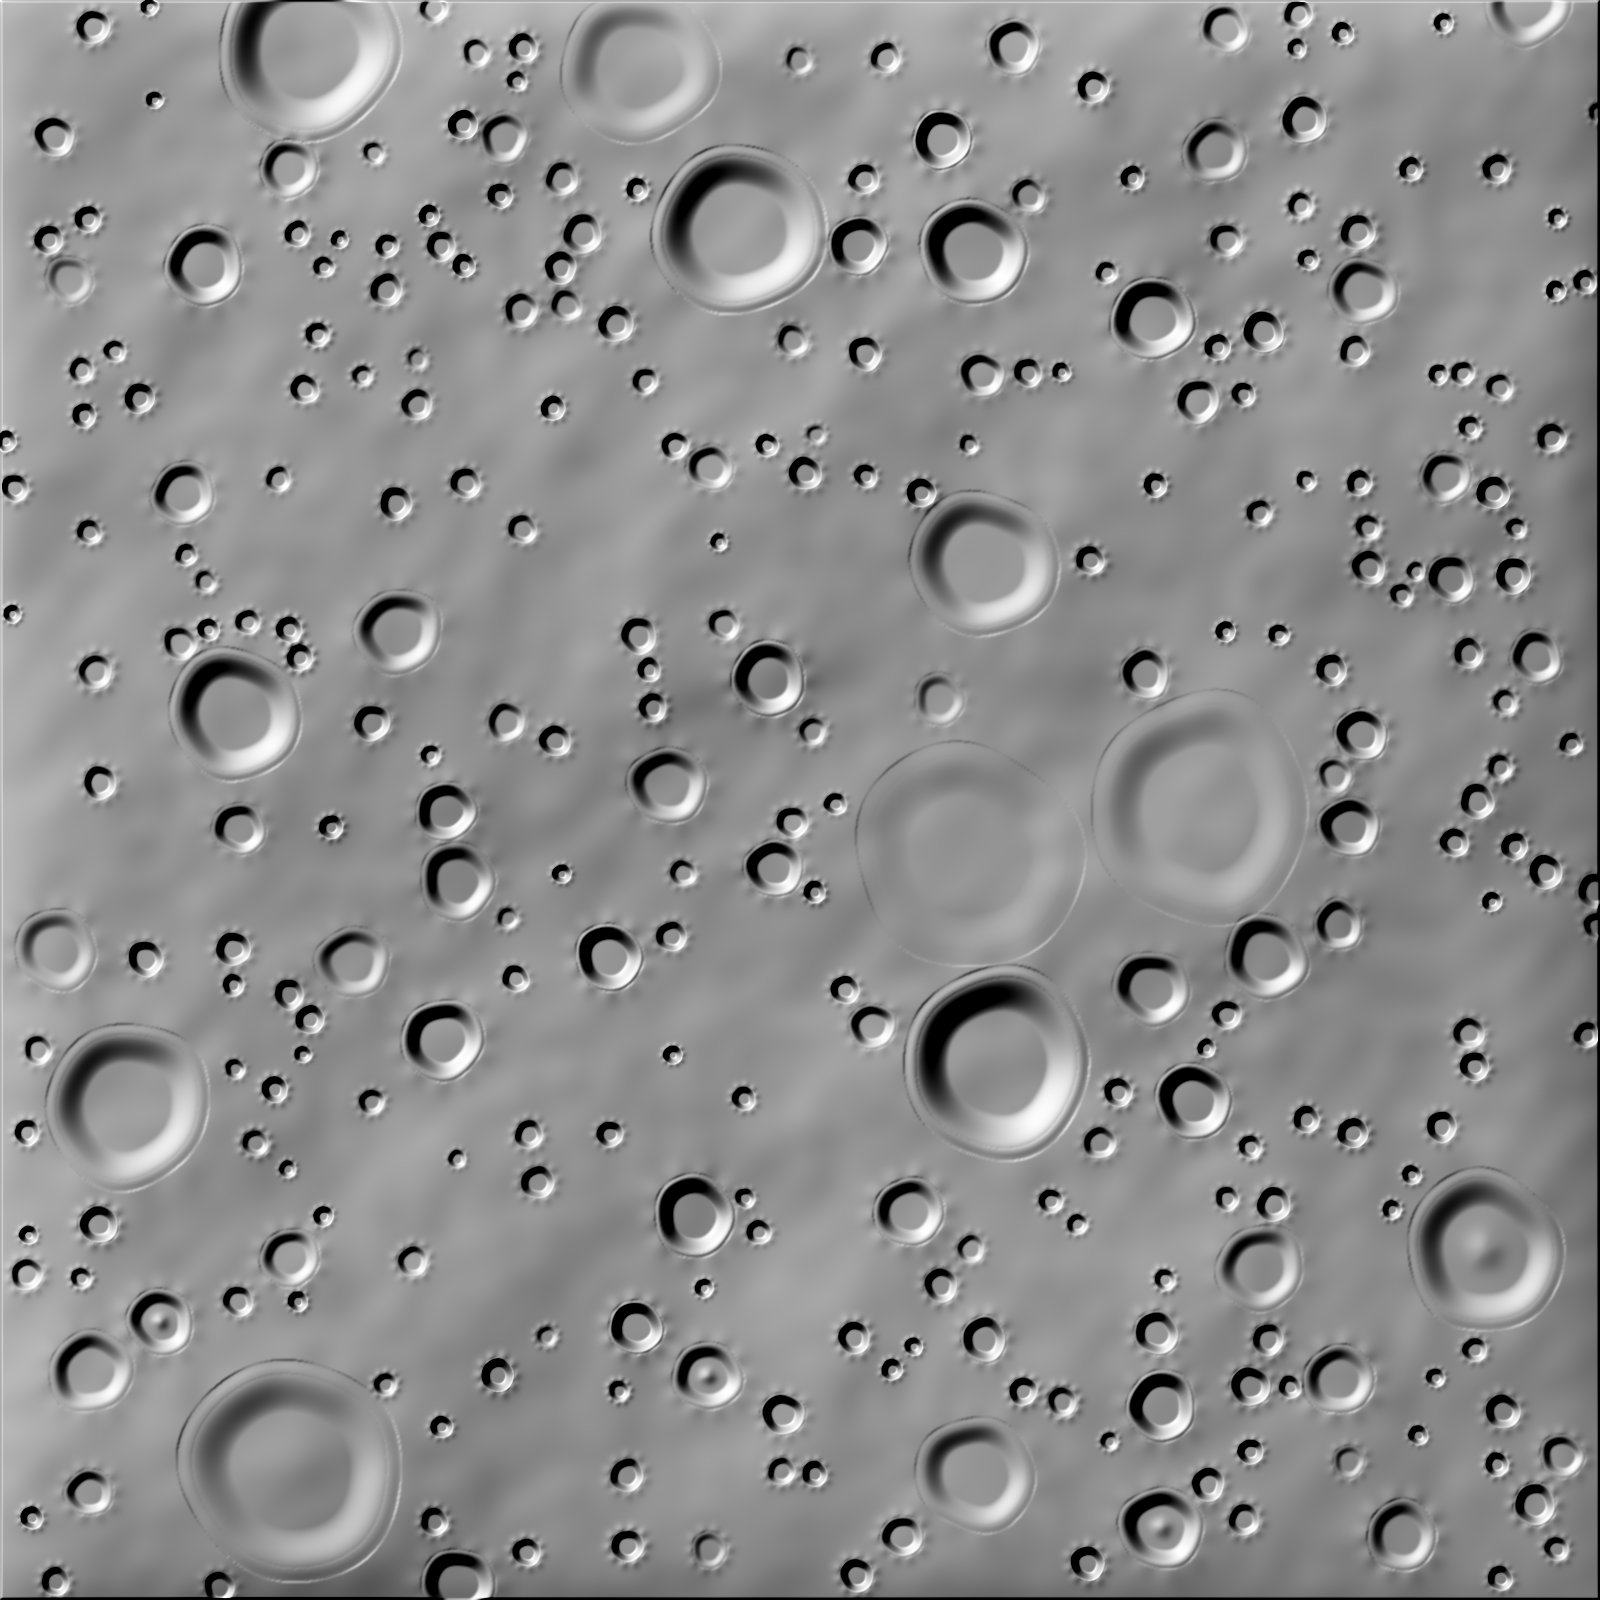
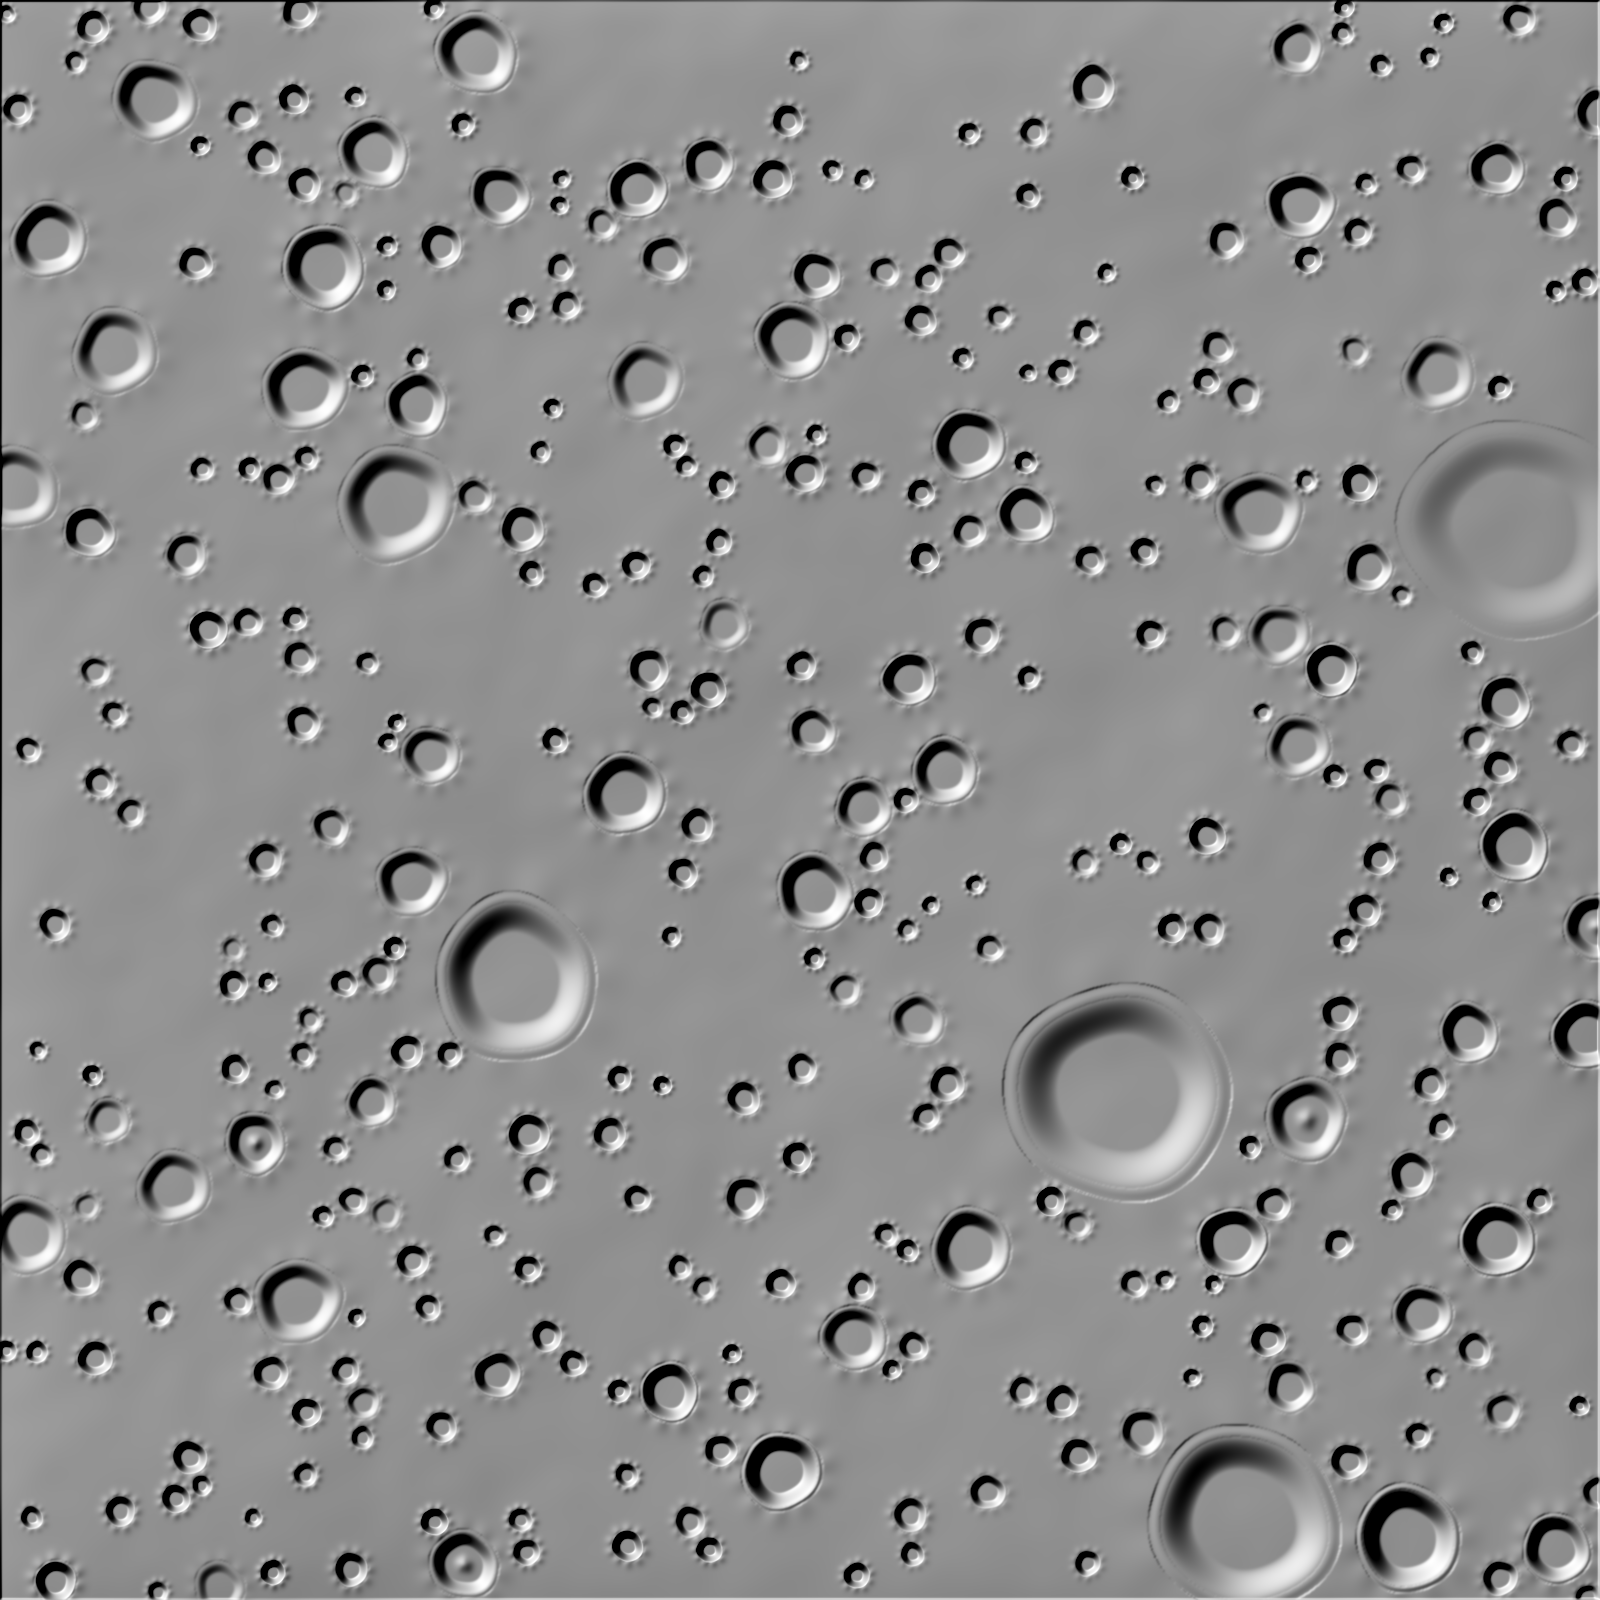
prototype: kill remaining soft circular dark patches
The dark "circular shadow" patches the user kept seeing in
planet_full.png had two real causes (neither of which was the mare
basin layer I'd already disabled):

  1. colourise() was lerping shadow→base→high archetype colours by
     elevation. Wherever the FBM heightmap dipped — even slightly —
     the albedo dropped to the archetype's shadow colour, producing
     soft circular dark blobs that looked exactly like cast shadows.
     Removed the height-based blend entirely. Albedo is now just the
     archetype base colour; brightness variation is left to hillshade
     and cast shadows.

  2. The dark archetypes (LAVA_TUBE rgb 80, MARE rgb 70) were so much
     darker than the bright ones that, after Gaussian-blurring the
     boundaries, they read as soft amorphous dark patches. Brought all
     archetype `base` colours into a tight 138..168 range so no biome
     looks like a shadow. Biomes are still distinguishable by tint.

Also compressed the FBM heightmap to ~30% of its raw amplitude and
reduced the big-crater count from 14 → 6. The remaining dark in the
planet view is now from craters only.

https://claude.ai/code/session_014xZZbBkCGkgHdGrMSpJjDx

diff --git a/prototypes/planet_visuals/generate.py b/prototypes/planet_visuals/generate.py
@@ -78,38 +78,41 @@ class Archetype:
     accent: tuple      # signature accent (ice glint, KREEP glow, void, etc.)
     contrast: float    # 0..1, how much hillshade modulates albedo
 
-# Tones tuned to look like real lunar imagery: low chroma, mostly grayscale with
-# subtle hue shifts. Saturation kills the moon-feel.
+# Tones tuned to look like real lunar imagery: low chroma, mostly grayscale
+# with subtle hue shifts. All `base` colours kept in a tight 140..170
+# brightness range so no biome region reads as a shadow patch when
+# rendered at full-planet zoom. Biomes are distinguished by tint, not
+# by big brightness jumps.
 ARCHETYPES = {
     "MARE_INDUSTRIAL":     Archetype("Mare (basalt)",
-                                     ( 70,  68,  66),
-                                     ( 38,  37,  36),
-                                     (110, 106, 100),
-                                     ( 50,  46,  42), 0.45),
+                                     (138, 134, 128),
+                                     ( 80,  78,  74),
+                                     (170, 165, 156),
+                                     ( 90,  86,  80), 0.45),
     "HIGHLAND_CONSTRUCTION": Archetype("Highland (anorthosite)",
-                                     (158, 154, 146),
-                                     (102,  98,  92),
-                                     (210, 206, 196),
+                                     (162, 158, 150),
+                                     (110, 106,  98),
+                                     (200, 196, 188),
                                      (190, 188, 180), 0.55),
     "POLAR_VOLATILE":      Archetype("Polar (ice frost)",
-                                     (170, 178, 192),
-                                     (108, 116, 130),
-                                     (224, 230, 240),
+                                     (168, 174, 184),
+                                     (115, 122, 134),
+                                     (210, 218, 230),
                                      (220, 234, 246), 0.65),
     "KREEP_SCIENTIFIC":    Archetype("KREEP (thorium-rich)",
-                                     (118, 108,  96),
-                                     ( 72,  64,  56),
-                                     (172, 158, 140),
+                                     (158, 144, 130),
+                                     (100,  90,  80),
+                                     (190, 174, 156),
                                      (200, 150, 110), 0.50),
     "LAVA_TUBE":           Archetype("Lava tube collapse",
-                                     ( 80,  76,  72),
-                                     ( 22,  20,  18),
-                                     (118, 112, 104),
+                                     (148, 142, 134),
+                                     ( 70,  66,  60),
+                                     (180, 172, 162),
                                      (  6,   4,   4), 0.45),
     "MIXED":               Archetype("Mixed terrain",
-                                     (124, 118, 110),
-                                     ( 72,  68,  62),
-                                     (190, 184, 172),
+                                     (152, 146, 138),
+                                     (100,  94,  86),
+                                     (188, 180, 168),
                                      (140, 132, 120), 0.55),
 }
 
@@ -194,7 +197,7 @@ class Crater:
     has_peak: bool
 
 
-def sample_craters(shape, rng, count_small=220, count_med=70, count_big=14,
+def sample_craters(shape, rng, count_small=260, count_med=85, count_big=6,
                    min_separation=1.05):
     """Reject-sample crater positions so no two craters overlap.
 
@@ -289,12 +292,15 @@ def apply_craters(height, craters, rng=None):
         # floors fall into cast shadow — the variety the user asked for.
         # Larger craters trend shallower (filled / complex morphology).
         size_factor = 1.0 - min(0.55, (c.r - 8) / 220.0)
-        # Beta distribution for a smooth continuous range, not uniform —
-        # gives a fat middle so most craters land at moderate depth, with
-        # tails for very shallow and very deep ones. The user reported
-        # only "3-4 levels" with a tight uniform; widening + reshaping
-        # produces a continuous depth gradient.
+        # Beta distribution for a smooth continuous range, fat in the
+        # middle. Big craters need a stronger floor on depth_jitter so
+        # they read as proper carved bowls; otherwise a shallow large
+        # crater looks like a soft circular patch on the surface.
         depth_jitter = float(rng.beta(2.2, 2.2)) * 1.6 + 0.15  # 0.15..1.75
+        if c.r > 60:
+            depth_jitter = max(depth_jitter, 1.05)
+        elif c.r > 35:
+            depth_jitter = max(depth_jitter, 0.80)
         sharp = 1.0 - c.age * 0.7
         depth_amp = -0.40 * sharp * size_factor * depth_jitter
         # Rim is *small* — only ~5% of depth amplitude.
@@ -452,56 +458,34 @@ def archetype_pixel_map(arch_grid):
     return arch_grid[py[:, None], px[None, :]]
 
 
-def colourise(height, mare_mask, hillsh, arch_pix, rng, cast_mask=None):
+def colourise(height, mare_mask, hillsh, arch_pix, rng, cast_mask=None,
+              albedo_height=None):
+    """Apply per-pixel archetype colour, then modulate with hillshade and
+    cast shadows. We deliberately do NOT blend the archetype's shadow/base/
+    high colours by elevation — that produced large soft circular dark
+    patches wherever the FBM heightmap dipped, even when those dips were
+    not actually crater features.
+    """
     h, w = height.shape
-    rgb = np.zeros((h, w, 3), dtype=np.float32)
 
-    # height normalised to 0..1 for shadow/high blending
-    hn = (height - height.min()) / max(1e-6, height.max() - height.min())
-
-    # build a per-pixel base/shadow/high palette via lookup
+    # Per-pixel base archetype colour (Gaussian-blurred boundaries).
     base = np.zeros((h, w, 3), dtype=np.float32)
-    shadow = np.zeros_like(base)
-    high = np.zeros_like(base)
-    accent = np.zeros_like(base)
     contrast = np.zeros((h, w), dtype=np.float32)
-
     for i, name in enumerate(ARCHETYPE_ORDER):
         a = ARCHETYPES[name]
         m = (arch_pix == i)
         base[m] = a.base
-        shadow[m] = a.shadow
-        high[m] = a.high
-        accent[m] = a.accent
         contrast[m] = a.contrast
 
-    # blur archetype boundaries so they don't look like a blocky checkerboard
     blur_px = int(PX_PER_CELL * 0.9)
     base = np.asarray(Image.fromarray(base.astype(np.uint8))
                       .filter(ImageFilter.GaussianBlur(blur_px)),
                       dtype=np.float32)
-    shadow = np.asarray(Image.fromarray(shadow.astype(np.uint8))
-                        .filter(ImageFilter.GaussianBlur(blur_px)),
-                        dtype=np.float32)
-    high = np.asarray(Image.fromarray(high.astype(np.uint8))
-                      .filter(ImageFilter.GaussianBlur(blur_px)),
-                      dtype=np.float32)
-    accent = np.asarray(Image.fromarray(accent.astype(np.uint8))
-                        .filter(ImageFilter.GaussianBlur(blur_px)),
-                        dtype=np.float32)
     contrast_blur = np.asarray(
         Image.fromarray((contrast * 255).astype(np.uint8))
         .filter(ImageFilter.GaussianBlur(blur_px)), dtype=np.float32) / 255.0
 
-    # albedo = lerp(shadow, base, hn) then lerp toward high in upper half
-    t_low = np.clip(hn * 2.0, 0, 1)[..., None]
-    t_high = np.clip((hn - 0.5) * 2.0, 0, 1)[..., None]
-    albedo = shadow * (1 - t_low) + base * t_low
-    albedo = albedo * (1 - t_high) + high * t_high
-
-    # mare basins darken the albedo (and lower elevation already pulls dark)
-    mare = mare_mask[..., None]
-    albedo = albedo * (1.0 - 0.22 * mare)
+    albedo = base
 
     # hillshade modulates albedo
     sh = hillsh[..., None]
@@ -610,11 +594,15 @@ def build_planet(seed=SEED):
     shape = (SIZE, SIZE)
 
     print("[1/6] heightmap (FBM)...")
-    # Strong low-frequency relief, almost no high-frequency texture so the
-    # craters dominate the local detail and hillshade has no wood-grain.
+    # Very gentle relief — just enough to keep the surface from looking
+    # like a perfectly flat sheet. With craters as the only "real"
+    # features, even modest FBM amplitude reads as ugly soft circular
+    # dark patches under hillshade. We compress the FBM range to ~0.25
+    # of its raw amplitude so the surface stays close to flat.
     base = fbm(shape, octaves=5, base_scale=384, persistence=0.5, rng=rng)
     detail = fbm(shape, octaves=3, base_scale=128, persistence=0.5, rng=rng)
     height = 0.92 * base + 0.08 * detail
+    height = (height - height.mean()) * 0.30
     save_gray(height, os.path.join(OUT, "stage1_heightmap.png"))
 
     print("[2/6] mare basins (disabled — read as circular dark patches)...")
@@ -640,7 +628,7 @@ def build_planet(seed=SEED):
     arch_grid = assign_archetype_grid(rng)
     arch_pix = archetype_pixel_map(arch_grid)
     rgb, albedo = colourise(height_with_craters, mare, sh, arch_pix, rng,
-                            cast_mask=cast)
+                            cast_mask=cast, albedo_height=height)
     save_rgb(albedo, os.path.join(OUT, "stage5_albedo.png"))
     save_rgb(rgb, os.path.join(OUT, "stage5_archetypes.png"))
 
@@ -693,7 +681,7 @@ def render_archetype_tiles():
         arch_idx = ARCHETYPE_ORDER.index(arch_name)
         arch_pix_local = np.full((tile_px, tile_px), arch_idx, dtype=np.int32)
         rgb, _ = colourise(h_with, mare, sh, arch_pix_local, local_rng,
-                           cast_mask=cast)
+                           cast_mask=cast, albedo_height=h)
         rgb = add_decals(rgb, arch_pix_local, h_with, local_rng)
         img = Image.fromarray(rgb)
         img = label_image(img, ARCHETYPES[arch_name].name, font_size=18)
@@ -816,7 +804,8 @@ def render_seed_variants():
         py = np.repeat(np.arange(PLANET_GRID), small_size // PLANET_GRID)
         px = np.repeat(np.arange(PLANET_GRID), small_size // PLANET_GRID)
         arch_pix = ag[py[:, None], px[None, :]]
-        rgb, _ = colourise(h2, mare, sh, arch_pix, rng, cast_mask=cast)
+        rgb, _ = colourise(h2, mare, sh, arch_pix, rng, cast_mask=cast,
+                           albedo_height=height)
         rgb = add_decals(rgb, arch_pix, h2, rng)
         im = Image.fromarray(rgb).resize((panel, panel), Image.LANCZOS)
         im = label_image(im, f"seed {s}", font_size=18)
